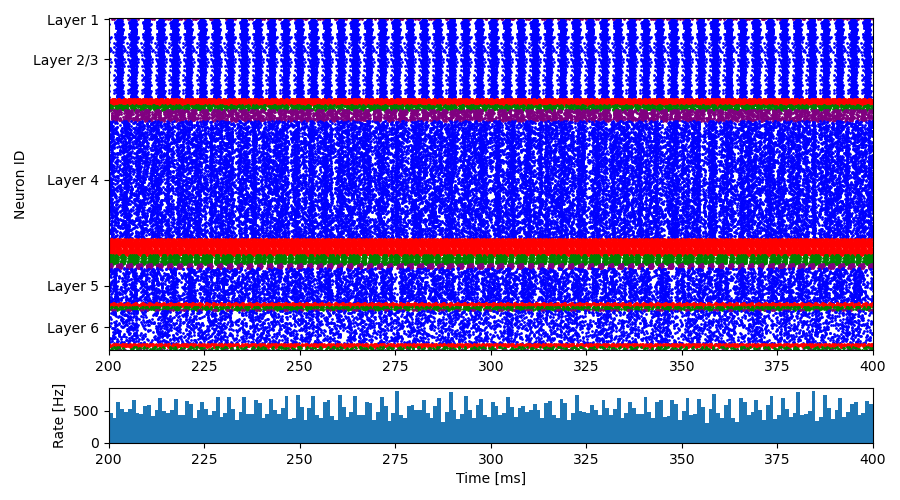
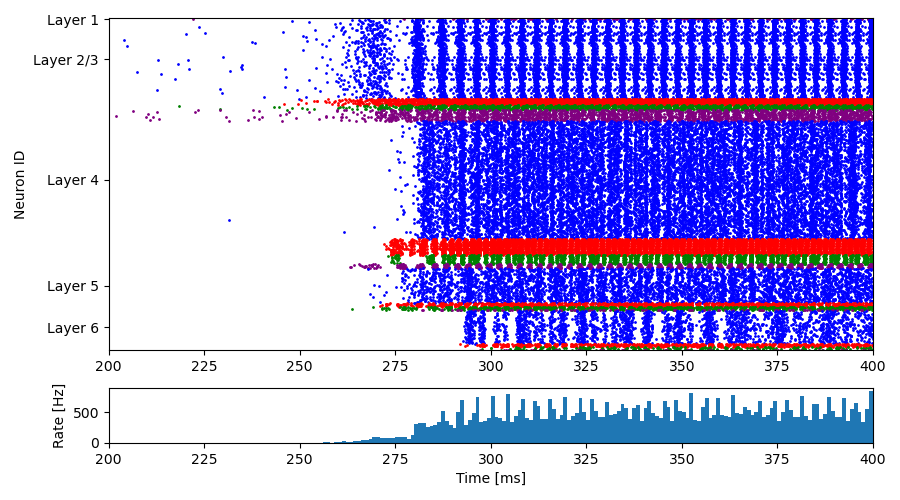
mostly fixes

diff --git a/simulation/setup.py b/simulation/setup.py
@@ -1,8 +1,6 @@
-from functions import Network, raster, rate, approximate_lfp_timecourse, get_isi, get_irregularity, get_synchrony, get_firing_rate, join_results, prep_spikes
 import numpy as np
 import pickle
 import scipy.stats as st
-import neuron
 from LFPy import NetworkCell
 from example_network_methods import set_active_hay2011 as set_active
 
@@ -22,7 +20,7 @@ def setup():
         'verbose'    :  True,                                                       # Flag for verbose function output
         'K_scale'    :     1.,                                                      # Scaling factor for connections
         'syn_scale'  :     1.,                                                      # Scaling factor for synaptic strenghts
-        'N_scale'    :     .5,                                                      # Scaling factor for the number of neurons
+        'N_scale'    :     .1,                                                      # Scaling factor for the number of neurons
         'R_scale'    :     0.1,                                                     # Fraction of neurons to be recorded from
         'opt_run'    :   False,                                                     # Flag for optimizer run, run minimal settings
         'g'          :      4.,                                                     # Excitation-Inhibition balance
@@ -113,7 +111,7 @@ def setup():
     # 1e-24, 3.2543403859854227, 0.641944589590017, 2.1834687407340443,
     # 7.0, 1e-24, 2.986536780670069, 0.5803055054744614
     
-    params['ext_rate']    = 5.3735191217570061
+    params['ext_rate']    = 1.3735191217570061
     params['ext_nodes']   = np.array([500, 500, 500, 500, 500, 500, 500, 500, 500, 500, 500, 500, 500, 500, 500, 500, 500])
     params['ext_weights'] = [4.7965744951318477, 
                              7.762524932070633, 12.818597965224434, 5.947184199171211, 3.3553839597064073, 

diff --git a/simulation/optimize_bkg_input.py b/simulation/optimize_bkg_input.py
@@ -8,13 +8,13 @@ import os
 
 def objective_function(**args):
     # Set the network parameters based on the input values
-    n_workers = 8
+    n_workers = 4
     
     params = setup()
     ## Set the amount of analysis done during runtime. Minimize stuff done
     ## for faster results
     params['calc_lfp'] = False
-    params['verbose']  = False
+    params['verbose']  = True
     params['opt_run']  = True
     
     ## Change values and run the function with different parameters
@@ -33,13 +33,17 @@ def objective_function(**args):
     ## Run the simulation in parallel by calling the simulation script with MPI  
     command = f"mpirun -n {n_workers} --verbose python3 run.py"
     
-    process = subprocess.Popen(command.split(), stdout=subprocess.PIPE, stderr=subprocess.PIPE, 
+    process = subprocess.Popen(command.split(), stdout=subprocess.DEVNULL,#stdout=subprocess.PIPE, stderr=subprocess.PIPE, 
                                cwd=cwd, env=env)
+    
     return_code = process.wait()
     print("Script exited with return code:", return_code)
-    output, error = process.communicate()
-    print("Standard output:\n", output.decode())
-    print("Error output:\n", error.decode())
+    #output, error = process.communicate()
+    #print("Standard output:\n", output.decode())
+    #print("Error output:\n", error.decode())
+    
+    #process.stdout.close()
+    #process.stderr.close()
     
     # Read the results from the file
     with open("sim_results", 'rb') as f:
@@ -59,7 +63,6 @@ def objective_function(**args):
     return -np.mean(scores)
 
 def optimize_network(optimizer):
-    
     uf = UtilityFunction(kind = "ucb", kappa = 4, xi = 0.2) # xi = 0.01 , kappa = 1.96
     
     optimizer.set_gp_params(alpha=1e-5, n_restarts_optimizer=5, normalize_y=True)

diff --git a/simulation/run.py b/simulation/run.py
@@ -1,10 +1,10 @@
 #!/usr/bin/python3
-
+print("Starting sim script")
 ######################
 ## Import libraries ##
 ######################
-import mpi4py
-mpi4py.rc.thread_level = "multiple"
+import mpi4py as mpi
+mpi.rc.thread_level = "multiple"
 
 from mpi4py import MPI
 
@@ -17,7 +17,6 @@ import time
 from prep_LFP_kernel import prep_LFP_kernel
 
 import pickle
-
 
 def run_network():
     ## Load config created by setup()
@@ -122,7 +121,7 @@ def run_network():
         with open("sim_results", 'wb') as f:
             data = ([10000]*17, [10000]*17, [10000]*17)
             pickle.dump(data, f)
-        return  data
+        return data
     
     
     network.simulate(params['sim_time']-200)
@@ -249,6 +248,6 @@ def run_network():
             pickle.dump(data, f)
         return (irregularity, synchrony, firing_rate)
      
-#from setup import setup
-#setup()
+from setup import setup
+setup()
 nya = run_network()

diff --git a/simulation/functions.py b/simulation/functions.py
@@ -141,7 +141,7 @@ class Network:
         R = itertools.product(r, r)
         
         for x,y in R:
-            print(f"Connecting population {x} to population {y} with a connection probability of {conn_specs[x,y]} with synapse type {syn_specs[x,y]}")
+            #print(f"Connecting population {x} to population {y} with a connection probability of {conn_specs[x,y]} with synapse type {syn_specs[x,y]}")
             if synapse_type[x,y] == "E":
                 receptor_type = 1
             else:
@@ -158,7 +158,7 @@ class Network:
             delay = nest.math.redraw(nest.random.normal(
                 mean = 3.0,
                 std=abs(3.0*0.5)),
-                min=nest.resolution*3, # Why would we do this? -> - 0.5 * nest.resolution,
+                min=self.resolution, # Why would we do this? -> - 0.5 * nest.resolution,
                 max=np.Inf)
 
             nest.Connect(self.populations[names[x]],
